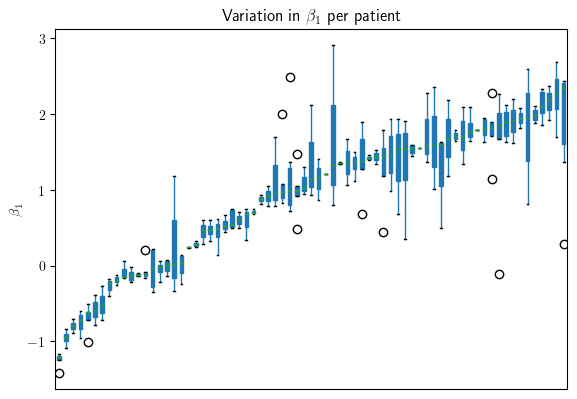
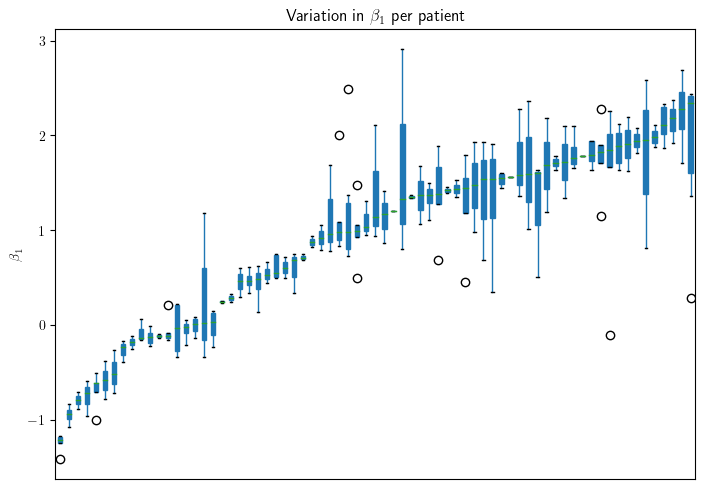
upres figure

diff --git a/chapters/results.tex b/chapters/results.tex
@@ -91,7 +91,7 @@ most cases, but it has some problems with outliers.
 
 \begin{figure}[h]
     \centering
-    \includegraphics{files/beta_1_var.png}
+    \includegraphics[width=\textwidth]{files/beta_1_var.png}
     \caption{Variation of $\beta_1$ in the dataset per patient.}
     \label{fig:beta-var}
 \end{figure}
